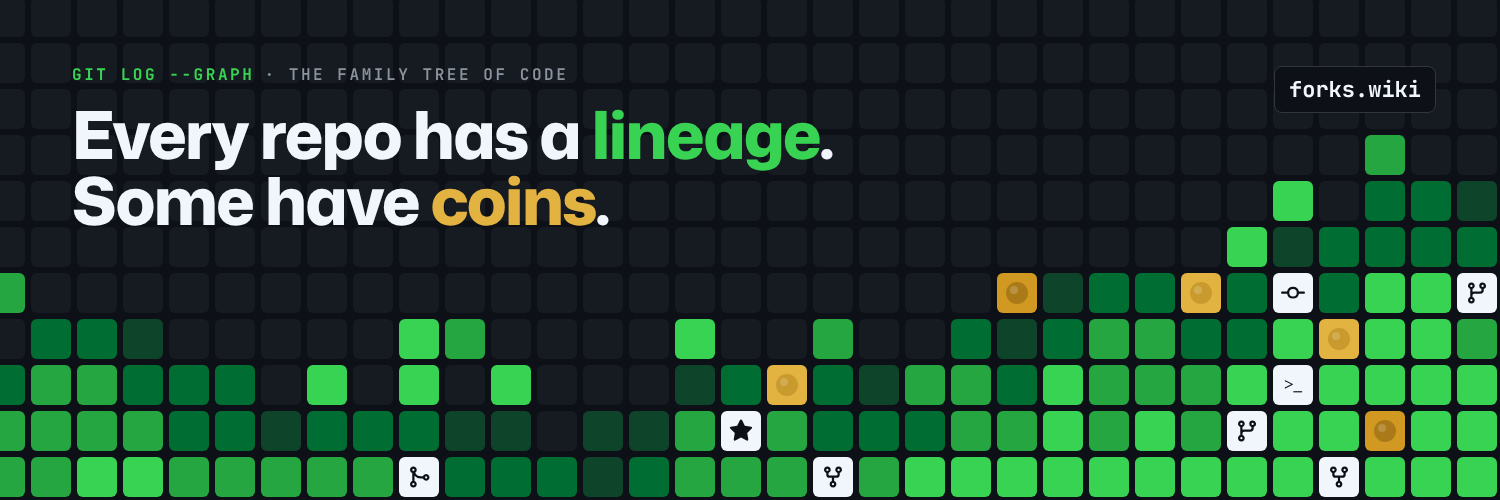
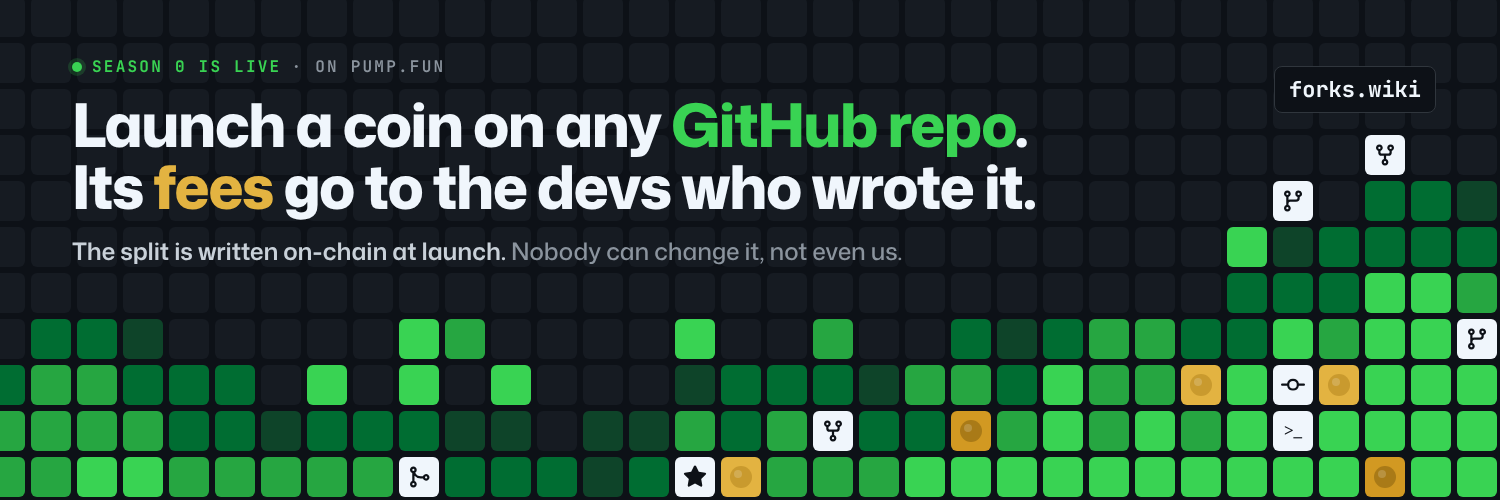
brand: X header says what forks does — launch a coin on any GitHub repo, its fees go to the devs who wrote it

diff --git a/docs/brand/header.html b/docs/brand/header.html
@@ -4,16 +4,20 @@
 * { margin: 0; box-sizing: border-box; }
 html, body { width: 1500px; height: 500px; background: #0d1117; overflow: hidden; }
 canvas { position: absolute; inset: 0; }
-.t { position: absolute; left: 72px; top: 64px; color: #f0f6fc; }
-.k { font: 600 16px JBM; letter-spacing: .16em; text-transform: uppercase; color: #8b949e; display: flex; gap: 10px; align-items: center; }
+.t { position: absolute; left: 72px; top: 56px; color: #f0f6fc; }
+.k { font: 600 16px JBM; letter-spacing: .14em; text-transform: uppercase; color: #8b949e; display: flex; gap: 10px; align-items: center; }
+.k i { width: 10px; height: 10px; border-radius: 50%; background: #39d353; box-shadow: 0 0 0 4px rgba(57,211,83,.18); }
 .k b { color: #39d353; font-weight: 700; }
-h1 { margin-top: 16px; font: 800 66px/1.0 Mona, sans-serif; letter-spacing: -.03em; white-space: nowrap; }
+h1 { margin-top: 16px; font: 800 60px/1.04 Mona, sans-serif; letter-spacing: -.03em; white-space: nowrap; }
 h1 .g { color: #39d353; } h1 .a { color: #e3b341; }
+.s { margin-top: 18px; font: 500 24px/1.3 Mona, sans-serif; letter-spacing: -.005em; color: #8b949e; white-space: nowrap; }
+.s b { color: #c9d1d9; font-weight: 600; }
 .url { position: absolute; right: 64px; top: 66px; font: 700 22px JBM; color: #f0f6fc; background: #0d1117; padding: 8px 14px; border-radius: 8px; border: 1px solid #30363d; }
 </style></head><body>
 <canvas id="c" width="1500" height="500"></canvas>
-<div class="t"><p class="k"><b>git log --graph</b> · the family tree of code</p>
-<h1>Every repo has a <span class="g">lineage</span>.<br>Some have <span class="a">coins</span>.</h1></div>
+<div class="t"><p class="k"><i></i><b>Season 0 is live</b> · on pump.fun</p>
+<h1>Launch a coin on any <span class="g">GitHub repo</span>.<br>Its <span class="a">fees</span> go to the devs who wrote it.</h1>
+<p class="s"><b>The split is written on-chain at launch.</b> Nobody can change it, not even us.</p></div>
 <p class="url">forks.wiki</p>
 <script>
 // a contribution graph that grows into a wave: GitHub's greens, a few repos (white, with git glyphs) and a few coins (amber)
@@ -39,7 +43,7 @@ for (let c = 0; c < COLS; c++) {
   }
 }
 // keep the words clear: no tiles behind the headline
-const clear = (c, r) => c * P + X0 < 830 && r * P + Y0 < 260;
+const clear = (c, r) => c * P + X0 < 1200 && r * P + Y0 < 290;
 const live = tiles.filter(t => !clear(t.c, t.r));
 // repos and coins among them
 const ICON = {
